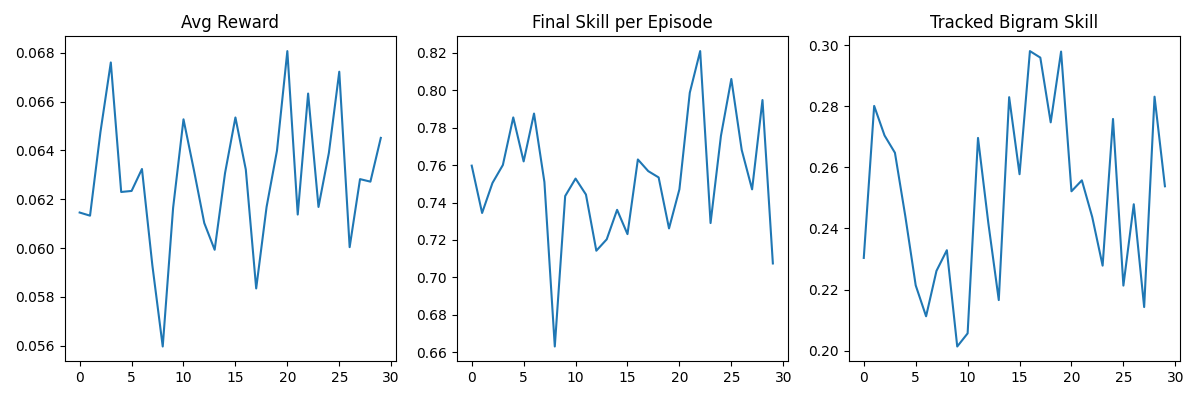
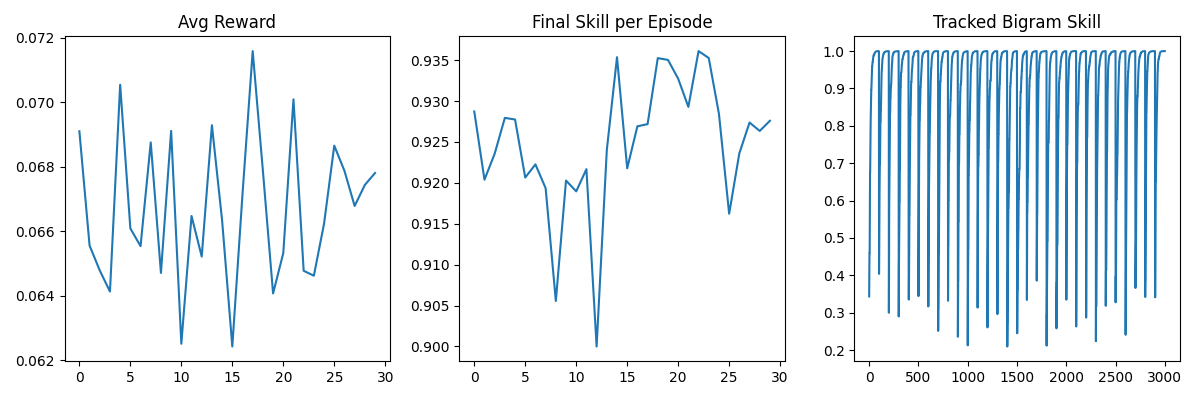
made couple of changes to the type_env self.lmbda = 0.001  -> to reduce the strength of forgetting self.t[b] += 0.3    -> reduce the scaling factor of time forget = self.lmbda * (1 - self.k[b]) * np.log(1 + self.t[b]) -> logarthmic instead of linear

diff --git a/typing_env.py b/typing_env.py
@@ -19,7 +19,9 @@ class TypingEnv:
         
         # learning parameters
         self.alpha = 0.15      # learning rate
-        self.lmbda = 0.004     # forgetting rate
+        
+        # lmbda changed from 0.004 --> 0.001 as forgetting parameter was strong!
+        self.lmbda = 0.001     # forgetting rate 
         self.eta = 0.1
         
         # skill vector
@@ -29,7 +31,7 @@ class TypingEnv:
         self.t = np.zeros(self.K)
         
         # dataset
-        self.dataset = SentenceDataset("typing_dataset.csv")
+        self.dataset = SentenceDataset("typing_dataset_cleaned.csv")
 
     # reset environment to initial state
     def reset(self):
@@ -64,7 +66,6 @@ class TypingEnv:
     
     def sample_sentence(self, bigram_id, difficulty):
         bigram = self.bigrams[bigram_id]
-        
         try:
             return self.dataset.sample(bigram, difficulty)
         
@@ -94,7 +95,13 @@ class TypingEnv:
     def update_skills(self, counts, acc):
         for b in range(self.K):
             c = counts[b]
+            """
             forget = self.lmbda * (1 - self.k[b]) * self.t[b]
+            
+            Before: linear growth → too harsh
+            Now: logarithmic → controlled forgetting
+            """
+            forget = self.lmbda * (1 - self.k[b]) * np.log(1 + self.t[b])
             if c > 0:
                 learn = self.alpha * acc[b] * np.log(1 + c) * (1 - self.k[b])
                 self.k[b] += learn - forget
@@ -103,13 +110,13 @@ class TypingEnv:
             # keep skills in valid range
             self.k[b] = np.clip(self.k[b], 0, 1)
             
-    # timer update: reset to 0 if practiced, otherwise increment by 1
+    # timer update: reset to 0 if practiced, otherwise increment by 0.3(1 is making the forgetting strong)
     def update_timers(self, counts):
         for b in range(self.K):
             if counts[b] > 0:
                 self.t[b] = 0
             else:
-                self.t[b] += 1
+                self.t[b] += 0.3
                 
     # environment step: process action, update state, and return reward
     def step(self, action):
@@ -131,5 +138,8 @@ class TypingEnv:
         next_state = self.get_state()
         done = False
         info = {}
+        
+        print("Avg skill before:", prev_avg_skill)
+        print("Avg skill after :", new_avg_skill)
         
         return next_state, reward, done, info

diff --git a/random_agent.py b/random_agent.py
@@ -21,7 +21,7 @@ def run_random_agent(episodes=30, steps_per_episode=100):
     L = env.L
     
     all_rewards = []
-    all_avg_skills = []
+    all_skills = []
     
     tracked_bigram = 0
     tracked_skill = []
@@ -32,21 +32,21 @@ def run_random_agent(episodes=30, steps_per_episode=100):
         episode_rewards = []
         episode_skills = [] 
         
-        tracked_skill.append(env.k[tracked_bigram])
-        
         for step in range(steps_per_episode):
             # random action
             action = np.random.randint(0, K * L)
             
             state, reward, done, _ = env.step(action)
             
+            tracked_skill.append(env.k[tracked_bigram])
+            
             episode_rewards.append(reward)
             episode_skills.append(np.mean(env.k))
         all_rewards.append(np.mean(episode_rewards))
         # this shows final skills achieved in that episode
-        all_avg_skills.append(episode_skills[-1])
-        print(f"Episode {ep+1}: Avg Reward = {all_rewards[-1]:.4f}, Avg Skill = {all_avg_skills[-1]:.4f}")
-    return all_rewards, all_avg_skills, tracked_skill
+        all_skills.append(episode_skills[-1])
+        print(f"Episode {ep+1}: Avg Reward = {all_rewards[-1]:.4f}, Avg Skill = {all_skills[-1]:.4f}")
+    return all_rewards, all_skills, tracked_skill
 
 def plot_results(rewards, skills, tracked_skill):
     plt.figure(figsize=(12,4))

diff --git a/rule_based_agent.py b/rule_based_agent.py
@@ -11,10 +11,10 @@ import matplotlib.pyplot as plt
 
 from typing_env import TypingEnv
 
-
 def select_action(env):
-    # 1. find weakest bigram
-    weakest_bigram = np.argmin(env.k)
+    # consider forgetting + skill
+    scores = env.k - 0.1 * env.t   # penalize long-unseen bigrams
+    weakest_bigram = np.argmin(scores)
     
     # 2. choose difficulty based on skill
     skill = env.k[weakest_bigram]
@@ -48,11 +48,11 @@ def run_rule_agent(episodes=30, steps_per_episode=100):
         episode_rewards = []
         episode_skills = []
         
-        tracked_skill.append(env.k[tracked_bigram])
-        
         for step in range(steps_per_episode):
             action = select_action(env)
             state, reward, done, _ = env.step(action)
+            
+            tracked_skill.append(env.k[tracked_bigram])
             
             episode_rewards.append(reward)
             episode_skills.append(np.mean(env.k))
@@ -60,7 +60,7 @@ def run_rule_agent(episodes=30, steps_per_episode=100):
         all_rewards.append(np.mean(episode_rewards))
         all_skills.append(episode_skills[-1])
         
-        print(f"Episode {ep+1}: Skill = {all_skills[-1]:.4f}")
+        print(f"Episode {ep+1}: Avg Reward = {all_rewards[-1]:.4f}, Avg Skill = {all_skills[-1]:.4f}")
     return all_rewards, all_skills, tracked_skill
 
 def plot_results(rewards, skills, tracked):
